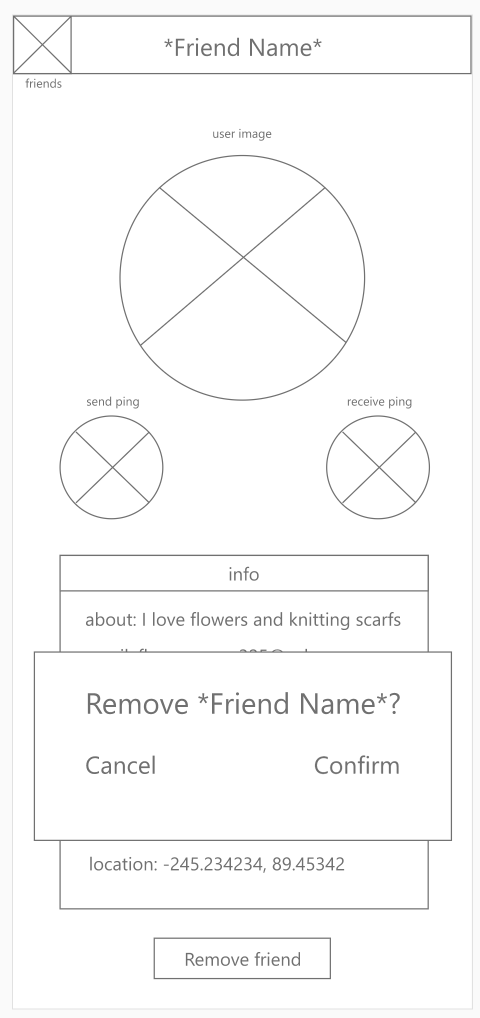
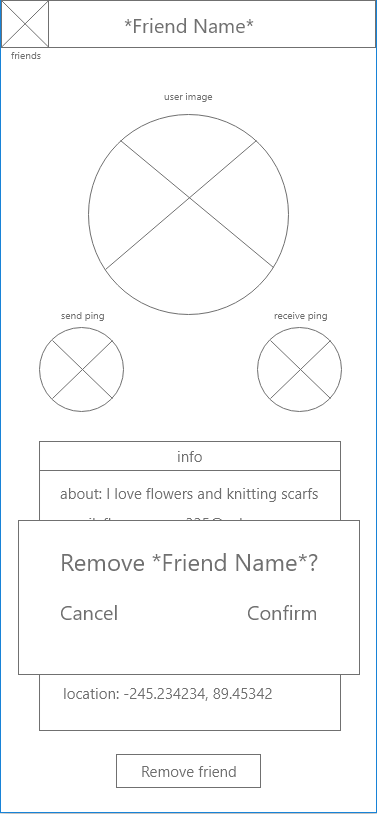
Built Structure for Report and Fixed Improper Images

diff --git a/design/README.md b/design/README.md
@@ -1,3 +1,47 @@
 # Interaction Design
 
-!!!Add your report content here!!!
+###For our wireframe, we made the following pages with user design and experience in focus, delivering on our goals given to us from our results of the requirment gathering phase, and the personas and scenarios we constructed
+
+##Maps (Home)
+<p float="left">
+    <img src="./assets/Maps.png" width="300" />
+    <img src="./assets/Mapspopup.png" width="300" />
+</p>
+
+
+##Friends Page
+<p float="left">
+    <img src="./assets/Friends.png" width="300" />
+</p>
+
+
+##Friend
+<p float="left">
+    <img src="./assets/Friend.png" width="300" />
+    <img src="./assets/Friendpopup.png" width="300" />
+</p>
+
+
+##Settings
+<p float="left">
+    <img src="./assets/Settings.png" width="300" />
+    <img src="./assets/Settingspopup.png" width="300" />
+</p>
+
+
+##Login/Create Account
+<p float="left">
+    <img src="./assets/Log-in.png" width="300" />
+    <img src="./assets/Create Account.png" width="300" />
+</p>
+
+
+##Account Changes
+<p float="left">
+    <img src="./assets/Account Details.png" width="200" />
+    <img src="./assets/Password.png" width="200" />
+  <img src="./assets/Account Deletion.png" width="200" />
+</p>
+
+
+
